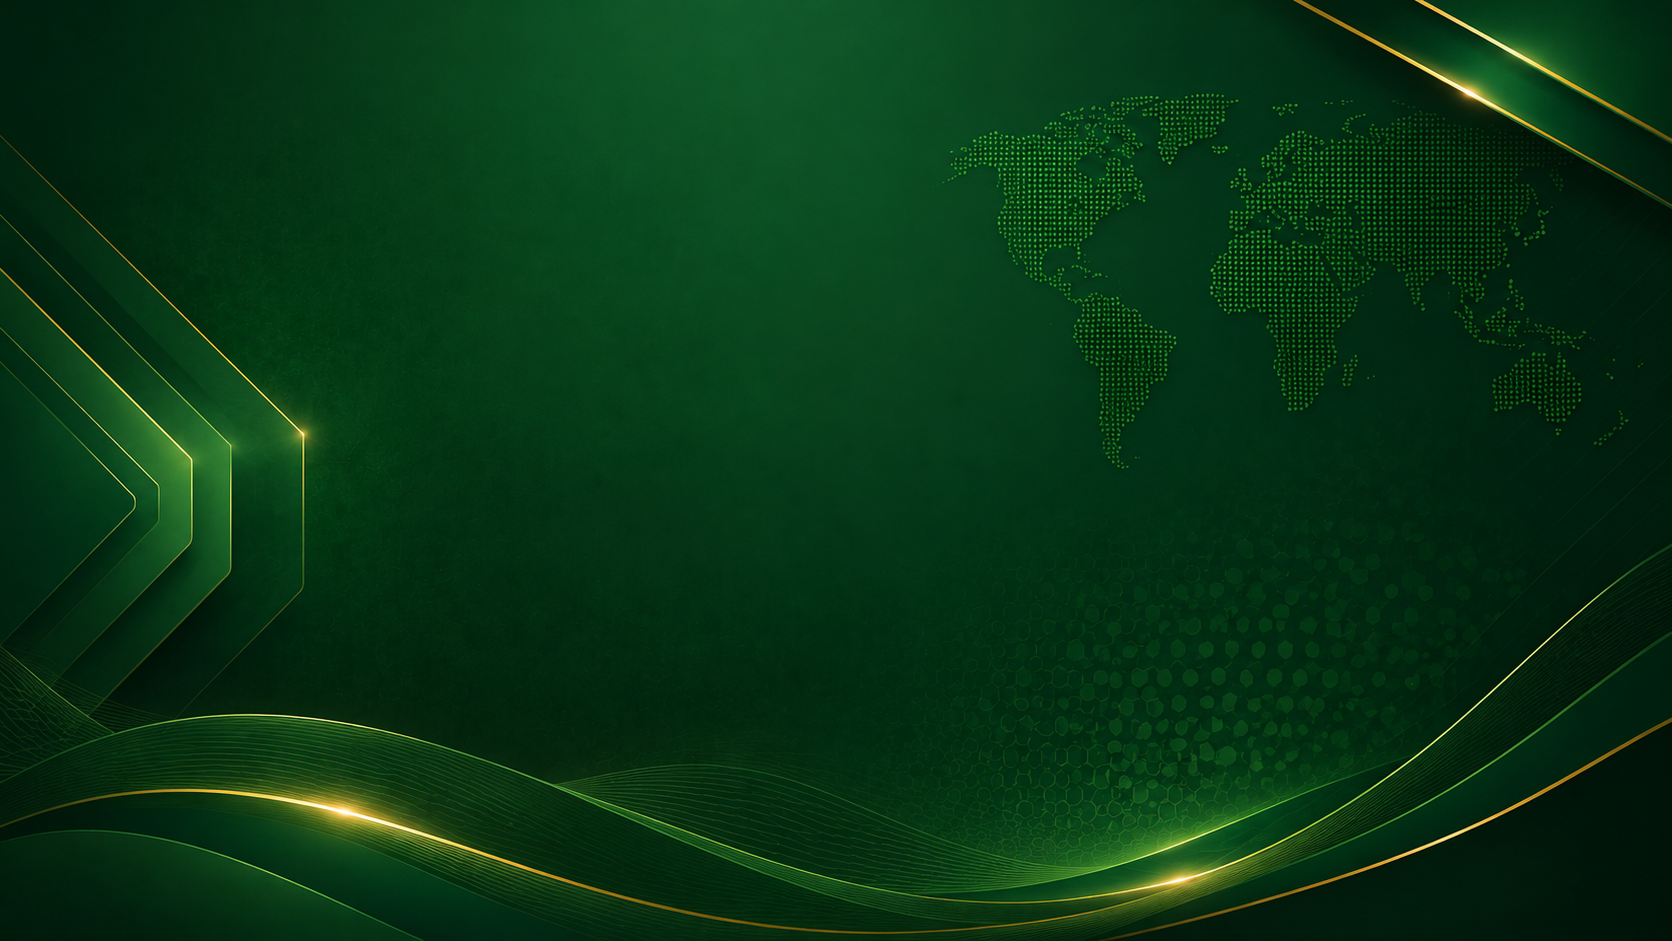
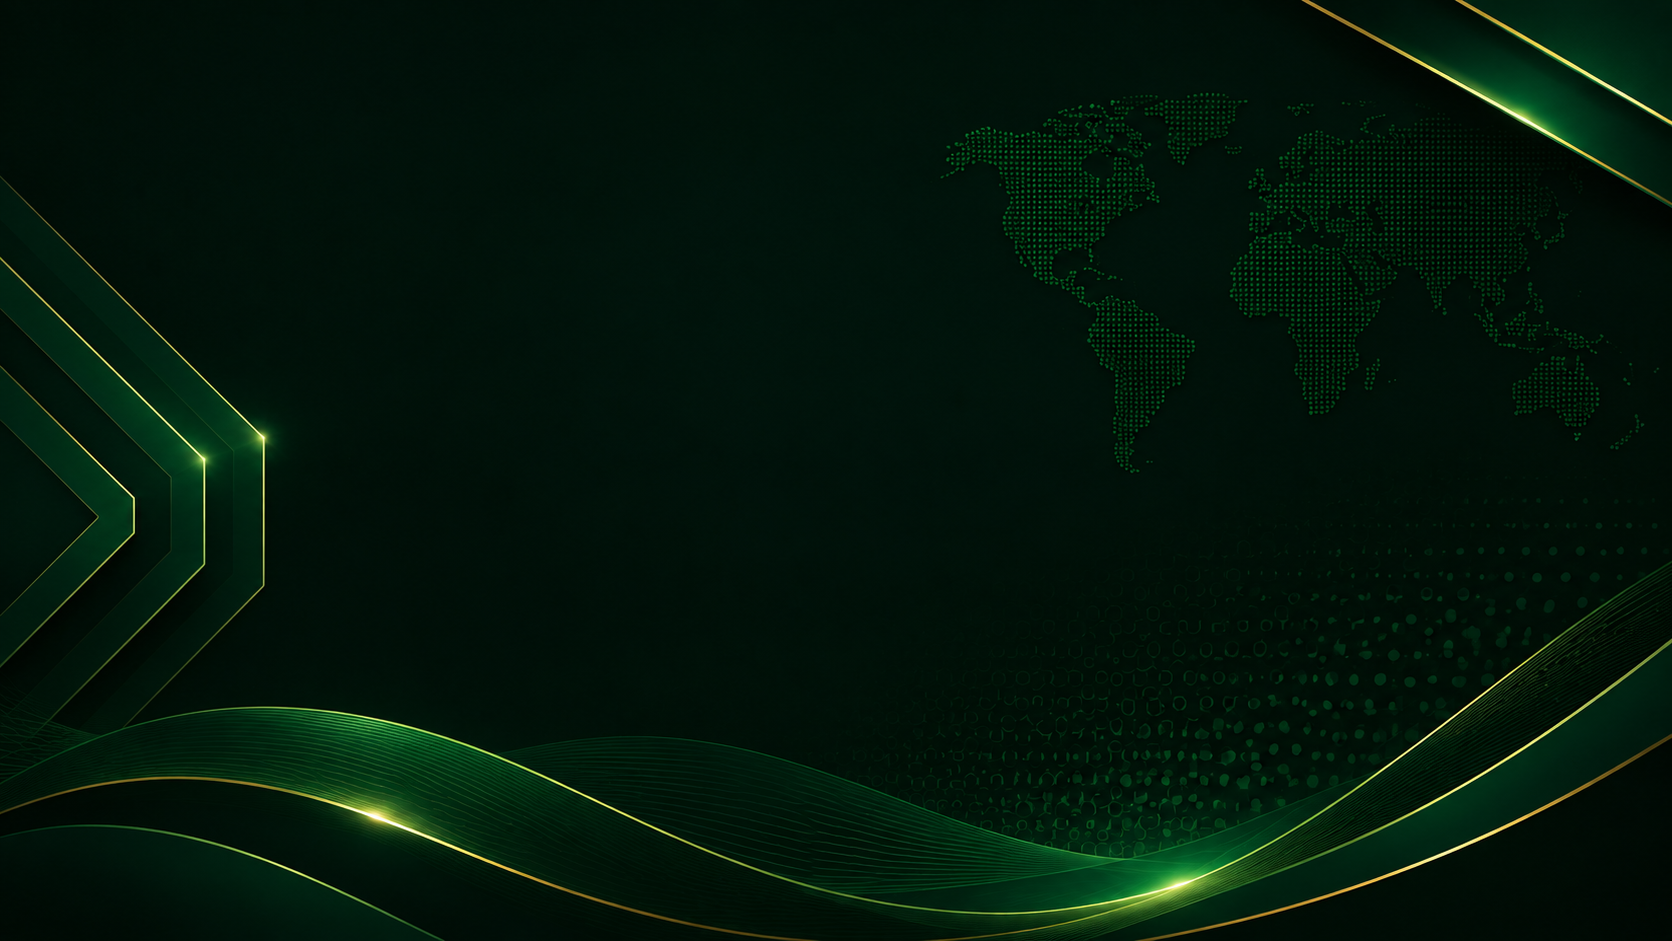
style: update app background and component gradients to a dark green theme

diff --git a/src/components/CommodityTable.jsx b/src/components/CommodityTable.jsx
@@ -165,9 +165,9 @@ const CommodityTable = ({ title, items }) => {
       sx={{
         width: "100%",
         borderRadius: "1.2vw",
-        background: "linear-gradient(135deg, rgba(8, 25, 15, 0.75) 0%, rgba(4, 20, 10, 0.85) 50%, rgba(2, 10, 5, 0.75) 100%)",
+        background: "linear-gradient(135deg, rgba(1, 30, 18, 0.85) 0%, rgba(1, 20, 12, 0.95) 50%, rgba(1, 30, 18, 0.85) 100%)",
         backdropFilter: "blur(12px)",
-        boxShadow: "0 0.8vw 2vw rgba(0, 0, 0, 0.6), inset 0 0 2vw rgba(0, 255, 128, 0.1)",
+        boxShadow: "0 0.8vw 2vw rgba(0, 0, 0, 0.6), inset 0 0 2vw rgba(4, 92, 54, 0.3)",
         padding: ".3vw 1vw 0 1vw",
         overflow: "hidden",
         position: "relative",
@@ -180,11 +180,11 @@ const CommodityTable = ({ title, items }) => {
           background: `
             linear-gradient(
               120deg,
-              rgba(0, 255, 128, 0.4) 0%,
-              rgba(0, 255, 128, 1) 20%,
-              rgba(255, 215, 0, 0.9) 50%,
-              rgba(0, 255, 128, 1) 80%,
-              rgba(0, 255, 128, 0.4) 100%
+              rgba(1, 30, 18, 0.4) 0%,
+              rgba(4, 92, 54, 1) 20%,
+              rgba(8, 145, 87, 0.9) 50%,
+              rgba(4, 92, 54, 1) 80%,
+              rgba(1, 30, 18, 0.4) 100%
             )
           `,
           backgroundSize: "300% 300%",

diff --git a/src/components/SpotRate.jsx b/src/components/SpotRate.jsx
@@ -188,10 +188,10 @@ const SpotRate = () => {
           backdropFilter: "blur(0.8vw)",
 
           background:
-            "linear-gradient(135deg, rgba(8, 25, 15, 0.75) 0%, rgba(4, 20, 10, 0.85) 50%, rgba(2, 10, 5, 0.75) 100%)",
+            "linear-gradient(135deg, rgba(1, 30, 18, 0.85) 0%, rgba(1, 20, 12, 0.95) 50%, rgba(1, 30, 18, 0.85) 100%)",
           border: "none",
           boxShadow:
-            "inset 0 0 2vw rgba(0, 255, 128, 0.1), 0 0.8vw 2.4vw rgba(0, 0, 0, 0.6)",
+            "inset 0 0 2vw rgba(4, 92, 54, 0.3), 0 0.8vw 2.4vw rgba(0, 0, 0, 0.6)",
           padding: {
             xs: "2vw 3vw",
             sm: "0.5vw 2vw",
@@ -214,11 +214,11 @@ const SpotRate = () => {
             background: `
               linear-gradient(
                 120deg,
-                rgba(0, 255, 128, 0.4) 0%,
-                rgba(0, 255, 128, 1) 20%,
-                rgba(255, 215, 0, 0.9) 50%,
-                rgba(0, 255, 128, 1) 80%,
-                rgba(0, 255, 128, 0.4) 100%
+                rgba(1, 30, 18, 0.4) 0%,
+                rgba(4, 92, 54, 1) 20%,
+                rgba(8, 145, 87, 0.9) 50%,
+                rgba(4, 92, 54, 1) 80%,
+                rgba(1, 30, 18, 0.4) 100%
               )
             `,
             backgroundSize: "300% 300%",

diff --git a/src/App.css b/src/App.css
@@ -1,5 +1,5 @@
 body {
-  background-color: #140b10;
+  background-color: #011e12;
   background-size: cover;
   height: 100vh;
   padding: "50px 50px";
